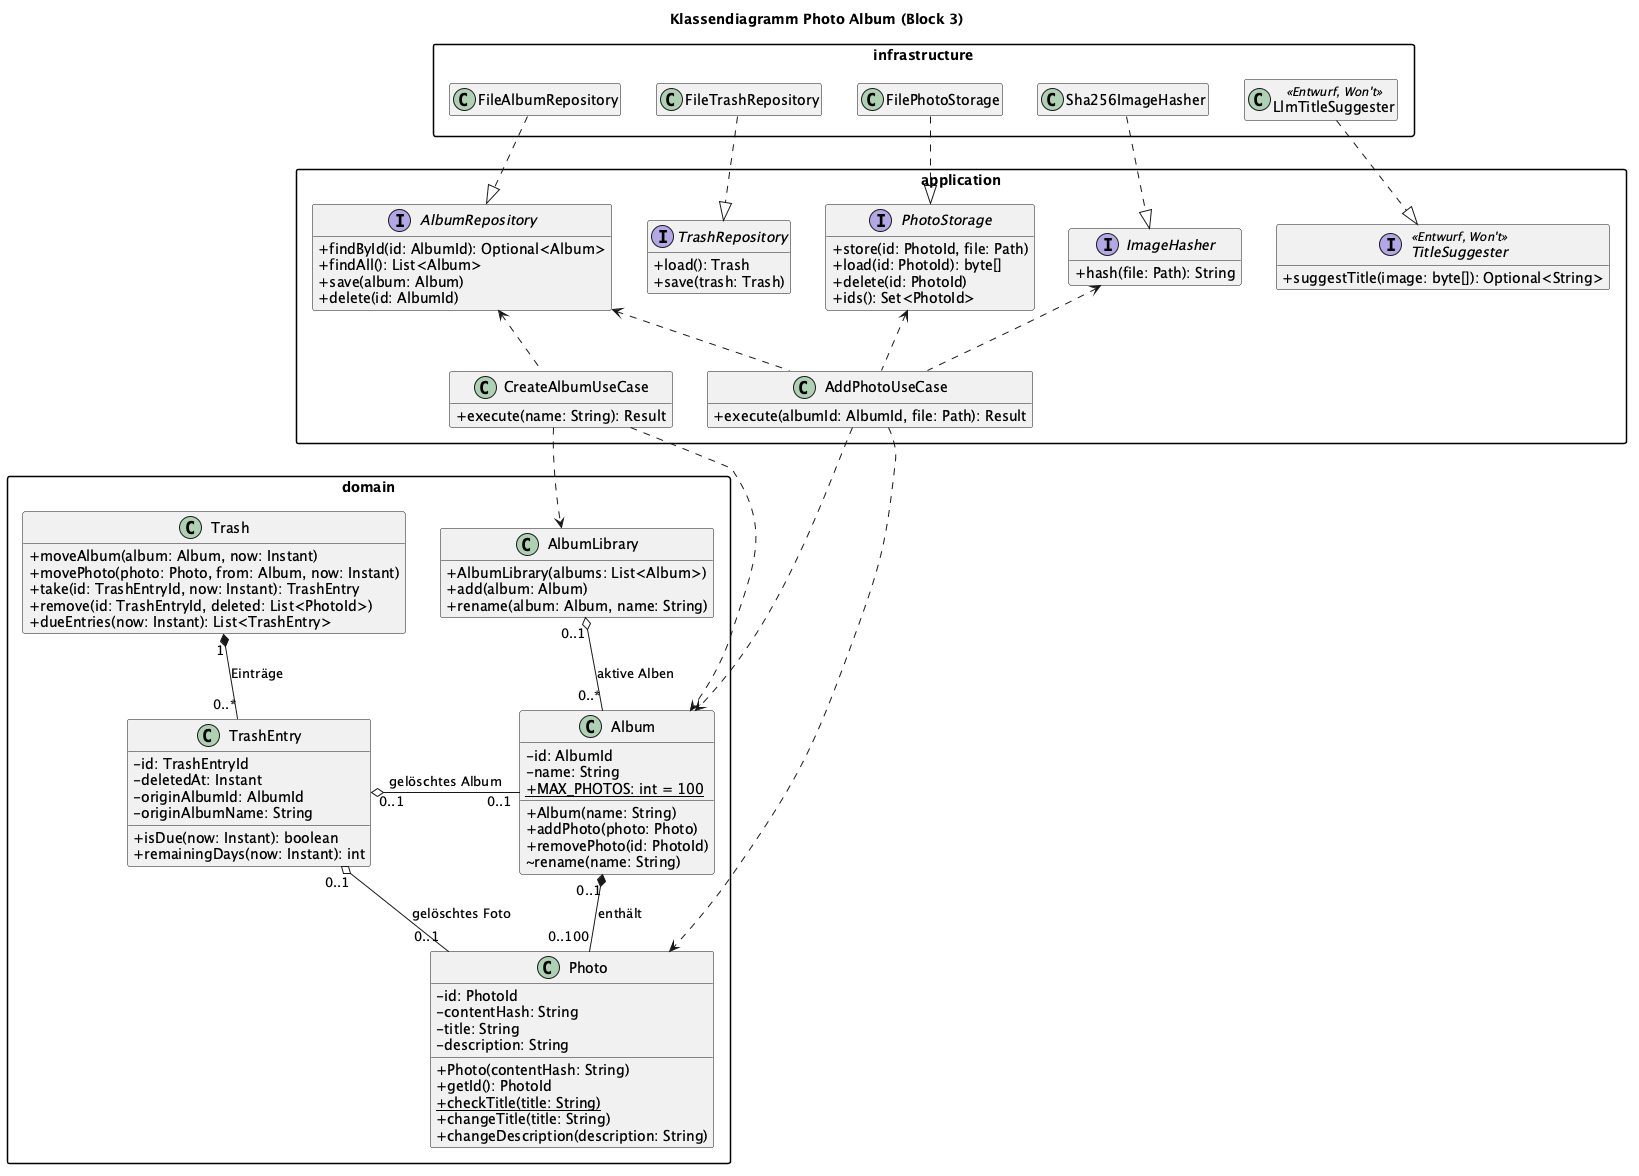
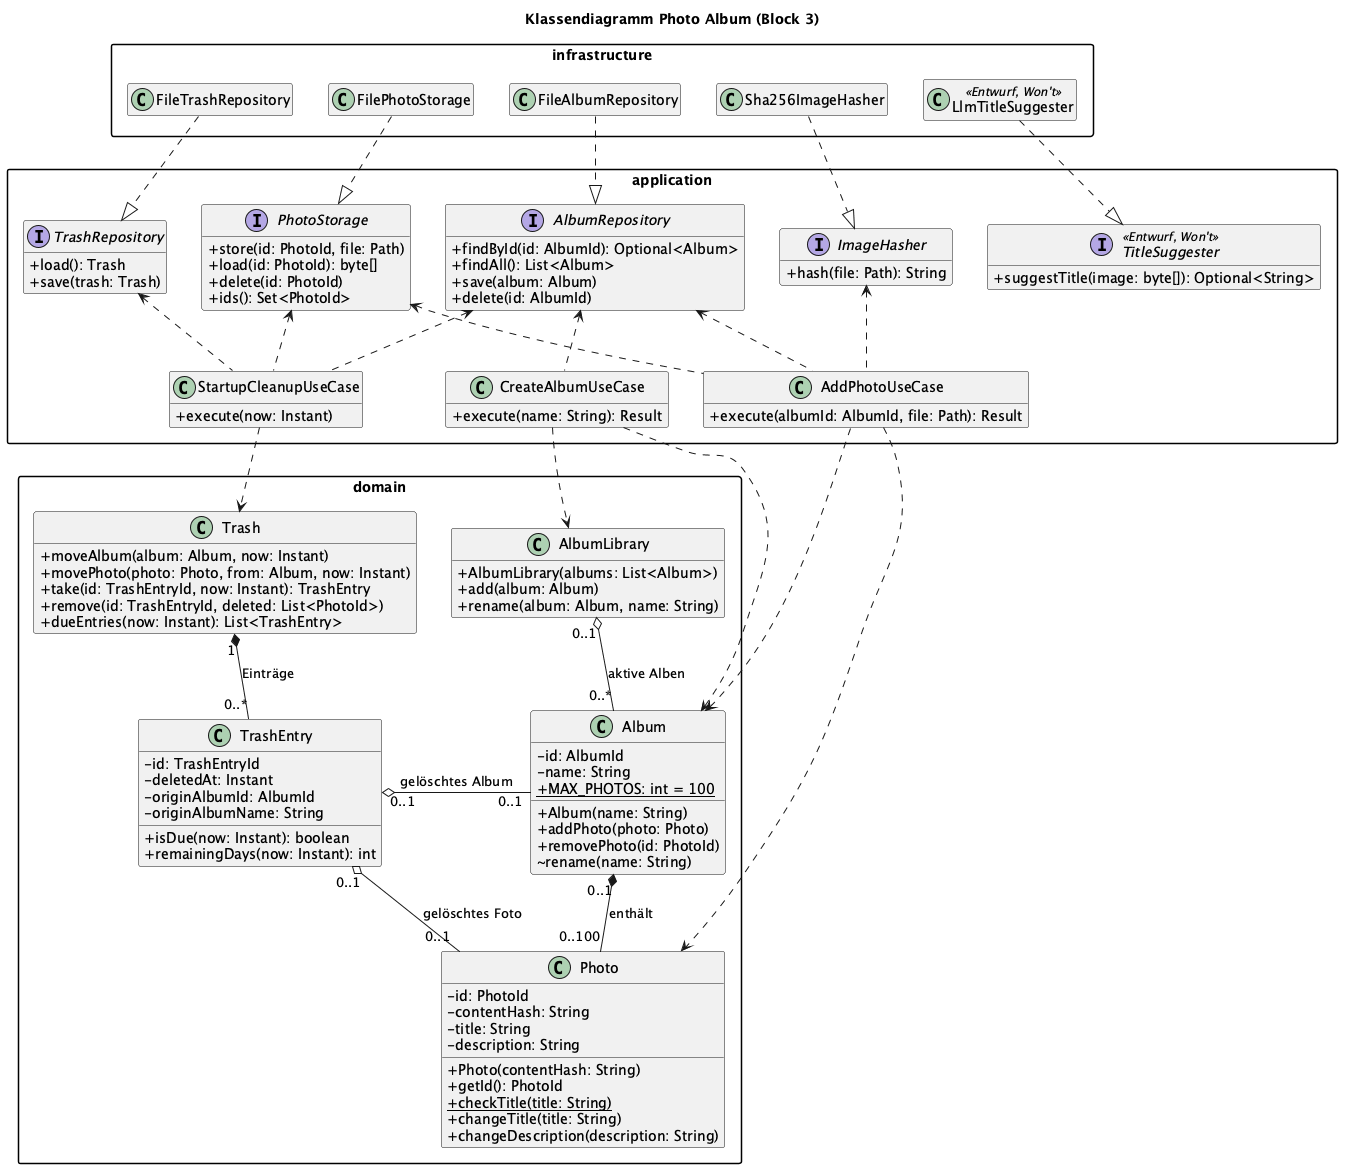
docs(block-3): Review-Punkte zu Bereinigung beim Start, Album-ID und Bildpuffer einarbeiten (#25)

diff --git a/src/main/java/de/commitmentissues/photoalbum/application/package-info.java b/src/main/java/de/commitmentissues/photoalbum/application/package-info.java
@@ -1,4 +1,4 @@
 /**
- * Anwendung: Use Cases je Nutzerziel und die Ports als Interfaces. Hängt nur von der Domäne ab.
+ * Anwendung: Use Cases je Nutzerziel, die Bereinigung beim Start und die Ports als Interfaces. Hängt nur von der Domäne ab.
  */
 package de.commitmentissues.photoalbum.application;

diff --git a/REQUIREMENTS.md b/REQUIREMENTS.md
@@ -143,7 +143,7 @@ Die [Teamfestlegungen in 3.2](#32-annahmen-und-offene-fragen) präzisieren Namen
 | --- | --- | --- | --- | --- |
 | NFA-01 | Zuverlässigkeit | Das System muss den vorherigen Zustand eines fehlgeschlagenen reversiblen Vorgangs erhalten oder wiederherstellen. | Keine Änderung an Albumdaten, Papierkorbeinträgen oder verwalteten Bilddateien durch den fehlgeschlagenen Vorgang. | Bei abgelehnten Eingaben und Dateifehlern gilt die Prüfung je eigenständigem Foto oder je Albumaktion als Einheit (A-11). Für das endgültige Löschen gilt SR-01. Scheitert auch das Zurücknehmen, gilt die Ausnahme in A-11. |
 | NFA-02 | Zuverlässigkeit | Das System muss nach einem regulären Neustart alle gespeicherten Daten außer den nach A-10 fälligen Papierkorbeinträgen und ihren App-Kopien beibehalten. | Die übrigen Daten sind unverändert vorhanden. Fotos in aktiven Alben bleiben anzeigbar. | Das System regulär beenden und erneut starten. |
-| NFA-03 | Performance und Speicherbedarf | Das System muss Bilder bei Bedarf nachladen, einen begrenzten Bildpuffer vorhalten und nicht mehr benötigte Bilddaten freigeben. | Ab dem Öffnen sind Fotoanzahl und erstes Bild in höchstens 1 Sekunde sichtbar und das Blättern zum nächsten Foto ist möglich; Bildpuffer innerhalb der festzulegenden Grenze. | Album mit 100 Fotos auf allen fünf Team-Laptops; gleicher Anwendungsstand und Testdatensatz (A-06). |
+| NFA-03 | Performance und Speicherbedarf | Das System muss Bilder bei Bedarf nachladen, einen begrenzten Bildpuffer vorhalten und nicht mehr benötigte Bilddaten freigeben. | Ab dem Öffnen sind Fotoanzahl und erstes Bild in höchstens 1 Sekunde sichtbar und das Blättern zum nächsten Foto ist möglich; Bildpuffer innerhalb der Grenze nach A-06. | Album mit 100 Fotos auf allen fünf Team-Laptops; gleicher Anwendungsstand und Testdatensatz (A-06). |
 | NFA-04 | Bedienbarkeit | Das System muss neuen Nutzern ermöglichen, ohne Erklärung ein Album zu erstellen und ein Foto hinzuzufügen. | Alle teilnehmenden Testpersonen schaffen beide Schritte jeweils in höchstens 60 Sekunden. | Fünf Testpersonen außerhalb des Teams nutzen das System erstmals; keine Alben vorhanden, gültige Bilddatei liegt bereit. Zeitmessung ab Wahl der jeweiligen Funktion bis zur Anzeige des erstellten Albums bzw. hinzugefügten Fotos. |
 | NFA-05 | Wartbarkeit und Testbarkeit | Das System muss die Prüfung seiner fachlichen Regeln mit Unit-Tests ermöglichen. | Zugeordnete Unit-Tests für alle fünf Regelgruppen: Albumnamen, Textlängen, Fotoanzahl, Duplikate und Papierkorb. | Tests ohne gestartete Oberfläche, echte Dateizugriffe oder Wartezeit für den Fristablauf ausführen. |
 
@@ -167,7 +167,6 @@ Bei einer Ablehnung nennt das System den Grund. Für den Datenzustand bei Fehler
 | AK-02.1 | Die Alben „Urlaub“ und „Party“ existieren. | Der Nutzer öffnet die Albumübersicht. | Beide Alben sind sichtbar. |
 | AK-02.2 | Es existiert kein Album. | Der Nutzer öffnet die Albumübersicht. | Die Übersicht zeigt keine Alben. |
 | AK-02.3 | Es gibt gespeicherte Alben. Ihre Albumdaten sind nicht lesbar. | Der Nutzer öffnet die Albumübersicht. | Das System meldet den Lesefehler beim Laden der Übersicht. Die gespeicherten Daten bleiben unverändert. |
-| AK-02.4 | Eine Albumdatei oder `trash.json` ist nicht lesbar. Es gibt eine App-Kopie ohne Album- oder Papierkorbeintrag. | Die App startet. | Alle App-Kopien bleiben erhalten (A-11). |
 | AK-03.1 | Das Album „Urlaub“ enthält drei Fotos. | Der Nutzer benennt es in „urlaub“ um. | Das Album trägt die neue Schreibweise und enthält dieselben Fotos. |
 | AK-03.2 | Ein Album besitzt einen Namen. | Der Nutzer bestätigt beim Umbenennen einen leeren Namen. | Das System lehnt die Änderung ab und meldet den leeren Namen. Das Album behält seinen bisherigen Namen. |
 | AK-03.3 | Die aktiven Alben „Urlaub“ und „Party“ existieren. | Der Nutzer versucht, „Party“ in „urlaub“ umzubenennen. | Das System meldet den bereits vergebenen Namen. Beide Alben bleiben unverändert. |
@@ -225,6 +224,7 @@ Die folgenden Wiederherstellungsfälle gelten für Einträge, deren Frist nach A
 | --- | --- | --- | --- |
 | AK-N01.1 | Albumdaten, Papierkorbeinträge und verwaltete Bilddateien sind erfasst. | Das System weist einen Vorgang wegen einer ungültigen Eingabe oder verletzten Geschäftsregel ab. | Albumdaten, Papierkorbeinträge und Bilddateien stimmen mit dem erfassten Zustand überein. |
 | AK-N02.1 | Alben, Fotozuordnungen, Fototexte und noch nicht fällige Papierkorbeinträge wurden gespeichert. | Der Nutzer beendet das System regulär und startet es erneut. | Die gespeicherten Daten einschließlich der Löschdaten sind unverändert vorhanden. Die Fotos in aktiven Alben lassen sich ansehen. |
+| AK-N02.2 | Eine Albumdatei oder `trash.json` ist nicht lesbar. Es gibt eine App-Kopie ohne Album- oder Papierkorbeintrag. | Die App startet. | Alle App-Kopien bleiben erhalten (A-11). |
 | AK-N03.1 | Auf allen fünf Team-Laptops liegen derselbe Anwendungsstand und derselbe festgelegte Testdatensatz mit einem Album mit 100 Fotos vor. | Jedes Teammitglied öffnet das Album auf seinem Laptop. | Auf jedem Laptop sind spätestens 1 Sekunde nach dem Auslösen des Öffnens die Fotoanzahl und das erste Bild sichtbar und das Blättern zum nächsten Foto ist möglich. |
 | AK-N03.2 | Ein Album mit 100 Fotos und die festgelegte Puffergrenze liegen vor. | Der Nutzer öffnet das Album und betrachtet nacheinander weitere Fotos. | Bilder werden bei Bedarf nachgeladen und nicht mehr benötigte Bilddaten freigegeben. Die gleichzeitig im Speicher gehaltenen Bilddaten überschreiten die Puffergrenze nicht. |
 | AK-N04.1 | Fünf Personen außerhalb des Teams nutzen das System erstmals; zu Beginn jedes Durchlaufs existiert kein Album, und eine gültige Bilddatei liegt bereit. | Sie erstellen ohne Erklärung ein Album und fügen das Foto hinzu. | Alle teilnehmenden Testpersonen schaffen beide Schritte jeweils innerhalb von 60 Sekunden: ab Wahl von „Album erstellen“ bis zur Anzeige des neuen Albums in der Übersicht und ab Wahl von „Foto hinzufügen“ bis zur Anzeige des Fotos im Album. |

diff --git a/ARCHITECTURE.md b/ARCHITECTURE.md
@@ -13,7 +13,7 @@ flowchart TB
         infra["FileAlbumRepository<br/>FileTrashRepository<br/>FilePhotoStorage<br/>Sha256ImageHasher"]
     end
     subgraph APP["Anwendung"]
-        uc["AddPhotoUseCase<br/>CreateAlbumUseCase"]
+        uc["AddPhotoUseCase<br/>CreateAlbumUseCase<br/>StartupCleanupUseCase"]
         ports["Ports (Interfaces)<br/>AlbumRepository<br/>TrashRepository<br/>PhotoStorage<br/>ImageHasher"]
     end
     subgraph DOM["Domäne"]
@@ -30,8 +30,8 @@ Ein Pfeil bedeutet „hängt ab von“. Die Infrastruktur implementiert die Port
 | Schicht | Aufgabe | Klassen (vorläufig) |
 |---|---|---|
 | UI | Zeigt Alben und Fotos an, nimmt Eingaben entgegen und zeigt Meldungen. Enthält keine Geschäftsregeln und greift nicht auf Dateien zu. | Swing-Fenster |
-| Anwendung | Ein Use Case je Nutzerziel. Lädt das Album über einen Port, lässt die Domäne entscheiden und speichert das Ergebnis. Legt die Ports als Interfaces fest. | `AddPhotoUseCase`, `CreateAlbumUseCase`; Ports `AlbumRepository`, `TrashRepository`, `PhotoStorage`, `ImageHasher` |
-| Domäne | Enthält die Geschäftsregeln aus [REQUIREMENTS.md](REQUIREMENTS.md): Albumname, höchstens 100 Fotos, kein Duplikat, Textlängen und Papierkorbfristen. Nur die technische Dateiprüfung nach A-03 liegt im Adapter (Abschnitt 2). | `Album`, `Photo`, `AlbumLibrary`, `Trash`, `TrashEntry` |
+| Anwendung | Ein Use Case je Nutzerziel, dazu die Bereinigung beim Start. Lädt das Album über einen Port, lässt die Domäne entscheiden und speichert das Ergebnis. Legt die Ports als Interfaces fest. | `AddPhotoUseCase`, `CreateAlbumUseCase`, `StartupCleanupUseCase`; Ports `AlbumRepository`, `TrashRepository`, `PhotoStorage`, `ImageHasher` |
+| Domäne | Enthält die Geschäftsregeln aus [REQUIREMENTS.md](REQUIREMENTS.md): Albumname, höchstens 100 Fotos, kein Duplikat, Textlängen und Papierkorbfristen. Nur die technische Dateiprüfung nach A-03 liegt im Adapter (Abschnitt 2). Die Bereinigung beim Start nach A-11 koordiniert `StartupCleanupUseCase`, weil sie Alben, Papierkorb und Kopien zusammen betrachtet. | `Album`, `Photo`, `AlbumLibrary`, `Trash`, `TrashEntry` |
 | Infrastruktur | Setzt die Ports technisch um: JSON-Dateien, App-Kopien der Bilder, Bildprüfung und Inhaltshash. | `FileAlbumRepository`, `FileTrashRepository`, `FilePhotoStorage`, `Sha256ImageHasher` |
 
 Die Oberfläche nutzt Swing, weil es im JDK enthalten ist und keine zusätzliche Abhängigkeit braucht. Die Klassen leiten sich aus den [CRC-Karten](docs/design/crc-karten.md) ab und stehen im [Klassendiagramm](#3-klassendiagramm). Die Ports beschreibt [Abschnitt 2](#2-komponenten-und-ports).
@@ -81,7 +81,7 @@ Der Ablauf folgt UC-01: Erst laufen alle Prüfungen, dann werden App-Kopie und A
 
 ## 5. Bildpuffer
 
-Beim Ansehen eines Albums hält die Anwendung höchstens **5 Bilder** gleichzeitig im Arbeitsspeicher: das angezeigte Foto und je zwei davor und danach (NFA-03, A-06). Beim Blättern lädt sie das nächste Bild nach und gibt das am weitesten entfernte frei. Die Bilder werden auf Anzeigegröße verkleinert gehalten, nicht in voller Auflösung. Beim Öffnen erscheinen zuerst Fotoanzahl und erstes Bild, die Nachbarn folgen danach.
+Beim Ansehen eines Albums hält die Anwendung höchstens **5 Bilder** gleichzeitig im Arbeitsspeicher: das angezeigte Foto und je zwei davor und danach (NFA-03, A-06). Beim Blättern lädt sie das nächste Bild nach und gibt das am weitesten entfernte frei. Die Bilder werden auf Anzeigegröße verkleinert gehalten, nicht in voller Auflösung. Beim Öffnen erscheinen zuerst Fotoanzahl und erstes Bild, die Nachbarn folgen danach. Wie im Klickprototyp zeigt die Albumansicht außerdem kleine Vorschaubilder, höchstens 12 je Seite. Sie zählen nicht zum Puffer, die Grenze von 5 gilt für die großen Bilder der Einzelansicht.
 
 Der Puffer gehört zur Anzeige in der UI und enthält keine Geschäftsregel. Die Bilddaten bekommt er über die Anwendung, die sie mit `PhotoStorage.load` lädt.
 
@@ -119,3 +119,5 @@ Die Folien fragen zusätzlich nach Werkzeugen für einen Agenten „Fotos aufrä
 ## 9. Schwächen und offene Punkte
 
 - Scheitern ein Speichern und danach auch das Zurücknehmen, bereinigt die App den Zustand erst beim nächsten Start. Liegt dieselbe Foto-ID dann in einem Album und im Papierkorb, bleibt das Foto im Album. Verwaiste Kopien löscht die App nur, wenn alle Alben und der Papierkorb lesbar sind. Diese Ausnahme ist in A-11 festgelegt und in [ADR-002](docs/adr/ADR-002-fehlerbehandlung.md) beschrieben.
+- Ist eine einzige Albumdatei nicht lesbar, scheitert `findAll`. Die Übersicht meldet dann nur den Lesefehler (AK-02.3), und auch Album erstellen, Wiederherstellen und endgültiges Löschen scheitern, bis die Datei repariert ist. Der Fall ist selten, deshalb bleibt es bei diesem einfachen Verhalten.
+- `ImageHasher` und `PhotoStorage` lesen die gewählte Datei getrennt. Ändert sie sich genau dazwischen, etwa in einem synchronisierenden Cloud-Ordner, wird eine ungeprüfte Fassung gespeichert. Auch dieser Fall ist selten.

diff --git a/docs/design/crc-karten.md b/docs/design/crc-karten.md
@@ -66,6 +66,14 @@ CRC steht für Class, Responsibilities, Collaborators. Die Karten leiten sich au
 | Neues `Album` von `AlbumLibrary` aufnehmen lassen und speichern | `AlbumLibrary` |
 | Fehler in eine verständliche Meldung für die UI übersetzen | `Album` |
 
+### `StartupCleanupUseCase`
+
+| Verantwortlichkeiten | Partner |
+|---|---|
+| Beim Start Alben und Papierkorb laden | `AlbumRepository`, `TrashRepository` |
+| Liegt dieselbe Foto-ID in einem Album und im Papierkorb, das Foto aus dem Papierkorb nehmen (A-11) | `Trash` |
+| Fällige Einträge und verwaiste Kopien löschen, nur wenn alle Alben und der Papierkorb lesbar sind (A-10, A-11, ADR-002) | `PhotoStorage` |
+
 ## Ports
 
 ### `AlbumRepository`
@@ -98,7 +106,7 @@ CRC steht für Class, Responsibilities, Collaborators. Die Karten leiten sich au
 
 ## Zuordnung der Geschäftsregeln
 
-Jede Regel steht auf genau einer Karte. Zwei Punkte aus den Anforderungen sind Abläufe statt Regeln eines Objekts: Die Bestätigung vor dem Löschen (FA-04, A-10) fragt die UI ab, bevor sie den Use Case aufruft. Die Bereinigung beim Start, vor dem Anzeigen des Papierkorbs und vor einer Wiederherstellung (A-10) stößt der jeweilige Use Case an: Er holt die fälligen Einträge über `Trash.dueEntries`, löscht ihre App-Kopien und nimmt danach nur die gelöschten Fotos über `Trash.remove` heraus (A-12). Beim Start bereinigt die Anwendung außerdem doppelte Foto-IDs und verwaiste Kopien ([ADR-002](../adr/ADR-002-fehlerbehandlung.md)).
+Jede Regel steht auf genau einer Karte. Zwei Punkte aus den Anforderungen sind Abläufe statt Regeln eines Objekts: Die Bestätigung vor dem Löschen (FA-04, A-10) fragt die UI ab, bevor sie den Use Case aufruft. Die Bereinigung beim Start, vor dem Anzeigen des Papierkorbs und vor einer Wiederherstellung (A-10) stößt der jeweilige Use Case an: Er holt die fälligen Einträge über `Trash.dueEntries`, löscht ihre App-Kopien und nimmt danach nur die gelöschten Fotos über `Trash.remove` heraus (A-12). Beim Start ist dafür `StartupCleanupUseCase` zuständig. Er bereinigt zusätzlich doppelte Foto-IDs und verwaiste Kopien ([ADR-002](../adr/ADR-002-fehlerbehandlung.md)).
 
 | Regel | Karte |
 |---|---|
@@ -111,6 +119,8 @@ Jede Regel steht auf genau einer Karte. Zwei Punkte aus den Anforderungen sind A
 | Wiederherstellen nur vor Ablauf der Frist | `Trash` |
 | Endgültiges Löschen mit Teilerfolg je Foto (A-12) | `Trash` |
 | Nur JPEG oder PNG bis 20 MiB (technische Eingangsprüfung) | `ImageHasher` |
+| Dieselbe Foto-ID in Album und Papierkorb bleibt im Album (A-11, Bereinigung nach Fehlern) | `StartupCleanupUseCase` |
+| Fällige Einträge und verwaiste Kopien nur löschen, wenn alles lesbar ist (A-11, ADR-002) | `StartupCleanupUseCase` |
 
 ## Durchspielen von „Foto hinzufügen“
 
@@ -123,6 +133,6 @@ Jede Regel steht auf genau einer Karte. Zwei Punkte aus den Anforderungen sind A
 
 Die Reihenfolge folgt UC-01: Erst laufen alle Prüfungen, dann wird gespeichert.
 
-Alle Karten außer `CreateAlbumUseCase`, `AlbumLibrary`, `Trash`, `TrashEntry` und `TrashRepository` kommen dabei zu Wort. Diese fünf gehören zu UC-02 und zum Papierkorb.
+Alle Karten außer `CreateAlbumUseCase`, `StartupCleanupUseCase`, `AlbumLibrary`, `Trash`, `TrashEntry` und `TrashRepository` kommen dabei zu Wort. Diese sechs gehören zu UC-02, zum Start und zum Papierkorb.
 
 `AddPhotoUseCase` hat fünf Partner, zwei mehr als die Faustregel der Folien. Die Karte koordiniert nur und trifft keine fachliche Entscheidung. Deshalb bleibt sie ungeteilt.

diff --git a/docs/adr/ADR-002-fehlerbehandlung.md b/docs/adr/ADR-002-fehlerbehandlung.md
@@ -1,6 +1,6 @@
 # ADR-002: Fehlerbehandlung über Exceptions und Result
 
-**Status:** akzeptiert · **Datum:** 10.11.2026
+**Status:** akzeptiert · **Datum:** 10.11.2026 · **geändert:** 12.11.2026
 
 ## Kontext
 
@@ -16,7 +16,7 @@ Abgelehnte Eingaben brauchen eine verständliche Meldung mit Grund. Der gespeich
 - Beim Erstellen eines Albums gibt es nur einen Schreibvorgang. Scheitert er, ist nichts zurückzunehmen.
 - Verschieben in den Papierkorb und Wiederherstellen ändern zwei Dateien: die Albumdatei und `trash.json`. Der jeweilige Use Case koordiniert beide. Er ändert zuerst die Datei, die das Foto oder Album aufnimmt, und danach die, aus der es verschwindet: beim Verschieben erst `trash.json`, dann die Albumdatei, beim Wiederherstellen umgekehrt. Scheitert der zweite Schritt, stellt er den alten Stand der ersten Datei wieder her (AK-04.2, AK-04.5, AK-09.2). So ist ein Foto nach einem Fehler höchstens doppelt gespeichert, aber nie verloren.
 - Scheitert auch das Wiederherstellen des alten Stands, gilt die Ausnahme aus A-11: Dieselbe Foto-ID liegt dann zugleich in einem aktiven Album und im Papierkorb. Beim nächsten Start nimmt die Anwendung das Foto aus dem Papierkorbeintrag heraus, ein leerer Eintrag entfällt. Das Foto bleibt also im Album, auch wenn der Vorgang ein Wiederherstellen war.
-- Beim Start bereinigt die Anwendung in dieser Reihenfolge: doppelte Foto-IDs, fällige Einträge (A-10), verwaiste Kopien. Fällige Einträge und verwaiste Kopien löscht sie nur, wenn jede Albumdatei und `trash.json` fehlerfrei gelesen wurden. `findAll` und `load` melden eine unlesbare Datei dafür als Fehler, statt sie zu überspringen. Sonst lässt sie alle Kopien unberührt (AK-02.4). Das Löschen einer schon fehlenden Kopie gilt als Erfolg. Endgültiges Löschen und die Bereinigung nach A-10 löschen keine App-Kopie, auf die noch ein Album verweist.
+- `StartupCleanupUseCase` bereinigt beim Start in dieser Reihenfolge: doppelte Foto-IDs, fällige Einträge (A-10), verwaiste Kopien. Fällige Einträge und verwaiste Kopien löscht er nur, wenn jede Albumdatei und `trash.json` fehlerfrei gelesen wurden. `findAll` und `load` melden eine unlesbare Datei dafür als Fehler, statt sie zu überspringen. Sonst lässt er alle Kopien unberührt (AK-N02.2). Folgen für die übrigen Use Cases stehen in ARCHITECTURE, Abschnitt 9. Das Löschen einer schon fehlenden Kopie gilt als Erfolg. Endgültiges Löschen und die Bereinigung nach A-10 löschen keine App-Kopie, auf die noch ein Album verweist.
 
 ## Verworfene Alternativen
 

diff --git a/docs/adr/ADR-001-speicherung.md b/docs/adr/ADR-001-speicherung.md
@@ -1,6 +1,6 @@
 # ADR-001: Speicherung als JSON-Dateien hinter Ports
 
-**Status:** akzeptiert · **Datum:** 10.11.2026
+**Status:** akzeptiert · **Datum:** 10.11.2026 · **geändert:** 12.11.2026
 
 ## Kontext
 
@@ -14,7 +14,7 @@ Die Projektbeschreibung verlangt eine lokale Datenhaltung im Dateisystem mit dok
   - `trash.json`: die Papierkorbeinträge mit Löschzeitpunkt und Ursprungsalbum (ID und Name),
   - `photos/<PhotoId>`: die App-Kopie jedes Bildes.
 
-  Die genauen Felder legt die Umsetzung der Adapter fest.
+  Die genauen Felder legt die Umsetzung der Adapter fest. Ein neu angelegtes Album bekommt immer eine neue ID, auch wenn es ein gelöschtes Ursprungsalbum ersetzt (A-09). So überschreibt keine Albumdatei eine andere.
 - `Sha256ImageHasher` berechnet beim Import einen SHA-256-Hash des Dateiinhalts. `Album` vergleicht nur noch Hashes und muss vorhandene Bilder nicht erneut lesen. Dass zwei verschiedene Dateien denselben SHA-256-Hash haben, ist praktisch ausgeschlossen.
 - Nur `Main` erzeugt die Adapter. Tests setzen Varianten im Arbeitsspeicher ein.
 
